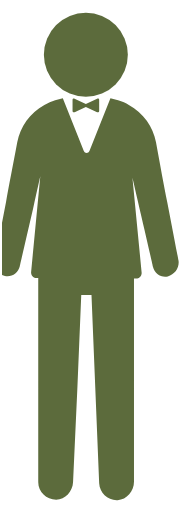
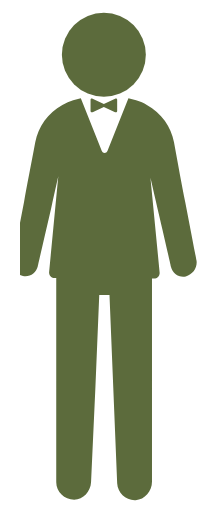
Vestimenta: balance optico de siluetas al centro

diff --git a/index.html b/index.html
@@ -377,11 +377,11 @@ body.locked .hero-bg img{animation:none !important}
     <div class="dresscode" data-od-id="details-dresscode">
       <div class="dc-figures">
         <figure>
-          <img class="dc-img" src="assets/dc-bride.png" alt="Silueta de novia con vestido formal" width="226" height="509" loading="lazy">
+          <img class="dc-img" src="assets/dc-bride.png" alt="Silueta de novia con vestido formal" width="272" height="509" loading="lazy">
           <figcaption>Damas<br />Vestido formal</figcaption>
         </figure>
         <figure>
-          <img class="dc-img" src="assets/dc-groom.png" alt="Silueta de novio con traje formal" width="226" height="512" loading="lazy">
+          <img class="dc-img" src="assets/dc-groom.png" alt="Silueta de novio con traje formal" width="208" height="512" loading="lazy">
           <figcaption>Caballeros<br />Traje formal</figcaption>
         </figure>
       </div>
